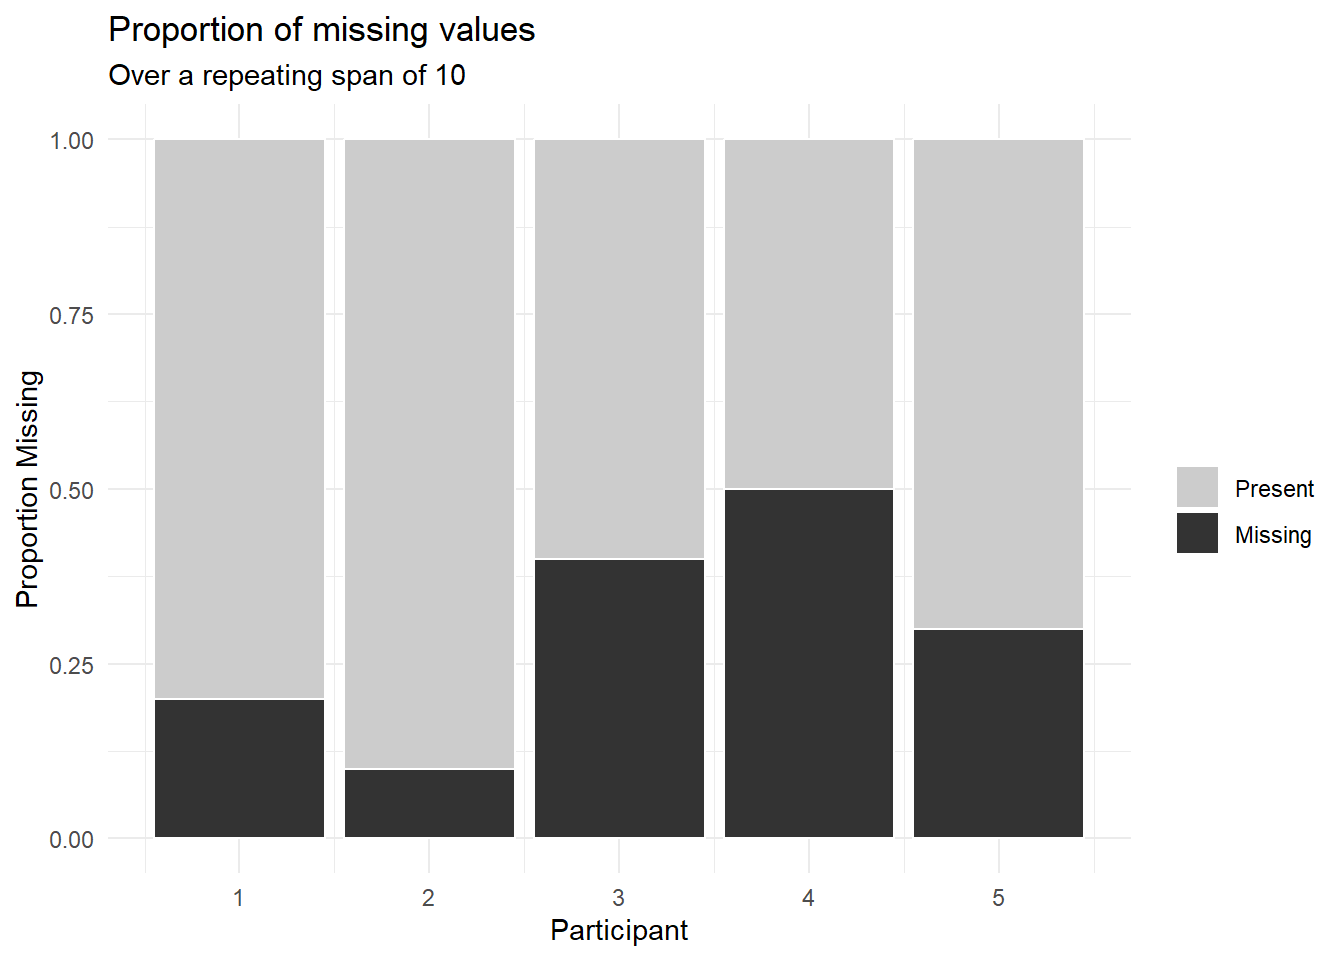
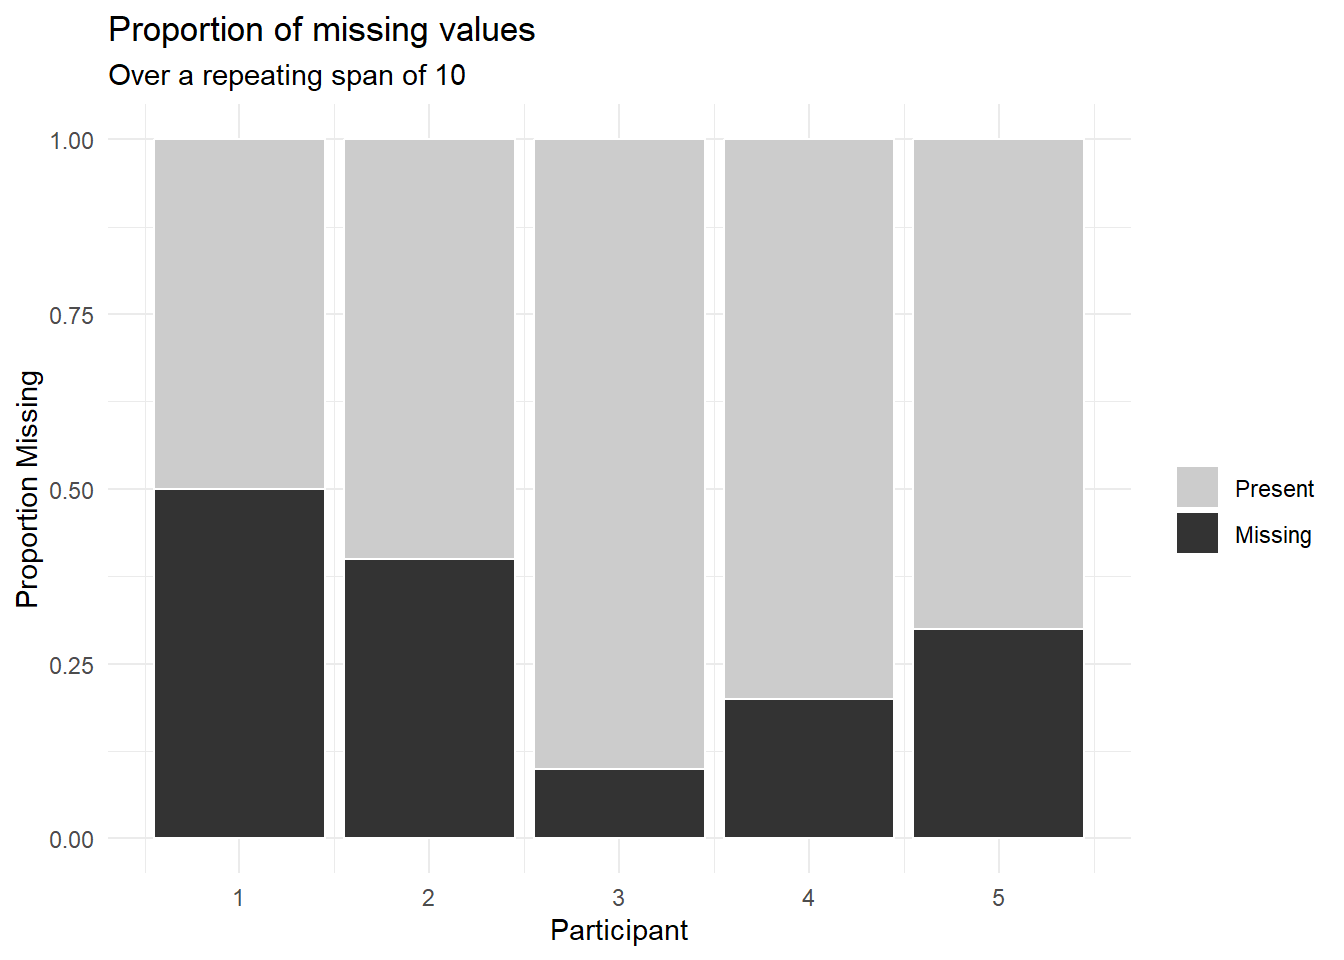
Finished missing data (for now)

Changed region(s): [[0.0938, 0.5, 0.6875, 0.8125]]

diff --git a/docs/missing-data.html b/docs/missing-data.html
@@ -199,7 +199,10 @@ div.csl-indent {
   <ul>
   <li><a href="#types-of-missing-data" id="toc-types-of-missing-data" class="nav-link active" data-scroll-target="#types-of-missing-data"><span class="header-section-number">2.1</span> Types of missing data</a></li>
   <li><a href="#invisible-missing-data-in-longitudinal-datasets" id="toc-invisible-missing-data-in-longitudinal-datasets" class="nav-link" data-scroll-target="#invisible-missing-data-in-longitudinal-datasets"><span class="header-section-number">2.2</span> Invisible missing data in longitudinal datasets</a></li>
-  <li><a href="#other-random-thoughts" id="toc-other-random-thoughts" class="nav-link" data-scroll-target="#other-random-thoughts"><span class="header-section-number">2.3</span> Other random thoughts</a></li>
+  <li><a href="#sec-visualizing-missing" id="toc-sec-visualizing-missing" class="nav-link" data-scroll-target="#sec-visualizing-missing"><span class="header-section-number">2.3</span> Visualizing missing data</a></li>
+  <li><a href="#data-imputation" id="toc-data-imputation" class="nav-link" data-scroll-target="#data-imputation"><span class="header-section-number">2.4</span> Data imputation</a></li>
+  <li><a href="#other-random-thoughts" id="toc-other-random-thoughts" class="nav-link" data-scroll-target="#other-random-thoughts"><span class="header-section-number">2.5</span> Other random thoughts</a></li>
+  <li><a href="#resources" id="toc-resources" class="nav-link" data-scroll-target="#resources"><span class="header-section-number">2.6</span> Resources</a></li>
   </ul>
 </nav>
     </div>
@@ -285,21 +288,21 @@ div.csl-indent {
 <span id="cb1-10"><a href="#cb1-10" aria-hidden="true" tabindex="-1"></a><span class="fu">slice_head</span>(sample_data, <span class="at">n =</span> <span class="dv">15</span>)</span></code><button title="Copy to Clipboard" class="code-copy-button"><i class="bi"></i></button></pre></div>
 <div class="cell-output cell-output-stdout">
 <pre><code>   participant beep     score
-1            1    1 97.984191
-2            1    3 76.404533
-3            1    4  9.632933
-4            1    5 40.076287
-5            1    6 53.914000
-6            1    8 97.989759
-7            1    9 62.433741
-8            1   10  2.217553
-9            2    1  7.354325
-10           2    2 83.207773
-11           2    3 79.002060
-12           2    4 22.008199
-13           2    6 20.502814
-14           2    7 73.632378
-15           2    8  3.618064</code></pre>
+1            1    2 55.487218
+2            1    4 31.263768
+3            1    8 67.341191
+4            1    9 26.042578
+5            1   10 69.639438
+6            2    2 37.726498
+7            2    3 93.845877
+8            2    5 36.796499
+9            2    7  3.636708
+10           2    8 65.142862
+11           2   10 80.435412
+12           3    1 79.711884
+13           3    3 34.767416
+14           3    4 34.352551
+15           3    5 59.431819</code></pre>
 </div>
 </div>
 <p>In this dataset there are no <em>real</em> missings – every cell in the table is filled with data, but there are missing beeps.</p>
@@ -312,30 +315,30 @@ div.csl-indent {
 <pre><code># A tibble: 15 × 3
    participant  beep score
          &lt;int&gt; &lt;int&gt; &lt;dbl&gt;
- 1           1     1 98.0 
- 2           1     2 NA   
- 3           1     3 76.4 
- 4           1     4  9.63
- 5           1     5 40.1 
- 6           1     6 53.9 
- 7           1     7 NA   
- 8           1     8 98.0 
- 9           1     9 62.4 
-10           1    10  2.22
-11           2     1  7.35
-12           2     2 83.2 
-13           2     3 79.0 
-14           2     4 22.0 
-15           2     5 NA   </code></pre>
+ 1           1     1  NA  
+ 2           1     2  55.5
+ 3           1     3  NA  
+ 4           1     4  31.3
+ 5           1     5  NA  
+ 6           1     6  NA  
+ 7           1     7  NA  
+ 8           1     8  67.3
+ 9           1     9  26.0
+10           1    10  69.6
+11           2     1  NA  
+12           2     2  37.7
+13           2     3  93.8
+14           2     4  NA  
+15           2     5  36.8</code></pre>
 </div>
 </div>
+</section>
+<section id="sec-visualizing-missing" class="level2" data-number="2.3">
+<h2 data-number="2.3" class="anchored" data-anchor-id="sec-visualizing-missing"><span class="header-section-number">2.3</span> Visualizing missing data</h2>
 <p>The missing scores have now become explicit and are visible as <code>NA</code> see <a href="#fig-visible-missings">Figure&nbsp;<span>2.1</span></a> and <a href="#fig-missings-with-span">Figure&nbsp;<span>2.2</span></a>.</p>
 <div class="cell">
-<div class="sourceCode cell-code" id="cb5"><pre class="sourceCode r code-with-copy"><code class="sourceCode r"><span id="cb5-1"><a href="#cb5-1" aria-hidden="true" tabindex="-1"></a><span class="fu">library</span>(naniar)</span></code><button title="Copy to Clipboard" class="code-copy-button"><i class="bi"></i></button></pre></div>
-<div class="cell-output cell-output-stderr">
-<pre><code>Warning: package 'naniar' was built under R version 4.3.3</code></pre>
-</div>
-<div class="sourceCode cell-code" id="cb7"><pre class="sourceCode r code-with-copy"><code class="sourceCode r"><span id="cb7-1"><a href="#cb7-1" aria-hidden="true" tabindex="-1"></a><span class="fu">gg_miss_var</span>(sample_with_explicit_missings, <span class="at">facet =</span> participant)</span></code><button title="Copy to Clipboard" class="code-copy-button"><i class="bi"></i></button></pre></div>
+<div class="sourceCode cell-code" id="cb5"><pre class="sourceCode r code-with-copy"><code class="sourceCode r"><span id="cb5-1"><a href="#cb5-1" aria-hidden="true" tabindex="-1"></a><span class="fu">library</span>(naniar)</span>
+<span id="cb5-2"><a href="#cb5-2" aria-hidden="true" tabindex="-1"></a><span class="fu">gg_miss_var</span>(sample_with_explicit_missings, <span class="at">facet =</span> participant)</span></code><button title="Copy to Clipboard" class="code-copy-button"><i class="bi"></i></button></pre></div>
 <div class="cell-output-display">
 <div id="fig-visible-missings" class="quarto-figure quarto-figure-center anchored">
 <figure class="figure">
@@ -346,8 +349,8 @@ div.csl-indent {
 </div>
 </div>
 <div class="cell">
-<div class="sourceCode cell-code" id="cb8"><pre class="sourceCode r code-with-copy"><code class="sourceCode r"><span id="cb8-1"><a href="#cb8-1" aria-hidden="true" tabindex="-1"></a><span class="fu">gg_miss_span</span>(sample_with_explicit_missings, score, <span class="at">span_every =</span> <span class="dv">10</span>) <span class="sc">+</span></span>
-<span id="cb8-2"><a href="#cb8-2" aria-hidden="true" tabindex="-1"></a>  <span class="fu">labs</span>(<span class="at">x =</span> <span class="st">"Participant"</span>)</span></code><button title="Copy to Clipboard" class="code-copy-button"><i class="bi"></i></button></pre></div>
+<div class="sourceCode cell-code" id="cb6"><pre class="sourceCode r code-with-copy"><code class="sourceCode r"><span id="cb6-1"><a href="#cb6-1" aria-hidden="true" tabindex="-1"></a><span class="fu">gg_miss_span</span>(sample_with_explicit_missings, score, <span class="at">span_every =</span> <span class="dv">10</span>) <span class="sc">+</span></span>
+<span id="cb6-2"><a href="#cb6-2" aria-hidden="true" tabindex="-1"></a>  <span class="fu">labs</span>(<span class="at">x =</span> <span class="st">"Participant"</span>)</span></code><button title="Copy to Clipboard" class="code-copy-button"><i class="bi"></i></button></pre></div>
 <div class="cell-output-display">
 <div id="fig-missings-with-span" class="quarto-figure quarto-figure-center anchored">
 <figure class="figure">
@@ -357,10 +360,34 @@ div.csl-indent {
 </div>
 </div>
 </div>
+<p>It is also possible to visualize the missing data in a scatterplot (look at <code>naniar::geom_miss_point()</code>). In <a href="#fig-missing-scatter">Figure&nbsp;<span>2.3</span></a> it can be seen that the missing values are approximately randomly distributed across the beeps (which makes sense because I used a random sample to create the missings in the first place).</p>
+<div class="cell">
+<div class="sourceCode cell-code" id="cb7"><pre class="sourceCode r code-with-copy"><code class="sourceCode r"><span id="cb7-1"><a href="#cb7-1" aria-hidden="true" tabindex="-1"></a>sample_with_explicit_missings <span class="sc">%&gt;%</span></span>
+<span id="cb7-2"><a href="#cb7-2" aria-hidden="true" tabindex="-1"></a>  <span class="fu">ggplot</span>(<span class="fu">aes</span>(<span class="at">x =</span> beep, <span class="at">y =</span> score)) <span class="sc">+</span></span>
+<span id="cb7-3"><a href="#cb7-3" aria-hidden="true" tabindex="-1"></a>  naniar<span class="sc">::</span><span class="fu">geom_miss_point</span>()</span></code><button title="Copy to Clipboard" class="code-copy-button"><i class="bi"></i></button></pre></div>
+<div class="cell-output-display">
+<div id="fig-missing-scatter" class="quarto-figure quarto-figure-center anchored">
+<figure class="figure">
+<p><img src="missing-data_files/figure-html/fig-missing-scatter-1.png" class="img-fluid figure-img" width="672"></p>
+<figcaption class="figure-caption">Figure&nbsp;2.3: A scatterplot showing missing values as red dots</figcaption>
+</figure>
+</div>
+</div>
+</div>
 </section>
-<section id="other-random-thoughts" class="level2" data-number="2.3">
-<h2 data-number="2.3" class="anchored" data-anchor-id="other-random-thoughts"><span class="header-section-number">2.3</span> Other random thoughts</h2>
+<section id="data-imputation" class="level2" data-number="2.4">
+<h2 data-number="2.4" class="anchored" data-anchor-id="data-imputation"><span class="header-section-number">2.4</span> Data imputation</h2>
+<p>I was taught to be very careful with data imputation. However, there can be cases where imputation is a wise thing to do because imputing a couple of missings can really save a lot of data from having to be thrown away.</p>
+<p>Imputation methods from the <code>naniar</code> package include <code>impute_below</code> and <code>impute_mean</code>. (See documentation for that package).</p>
+<p>A package that can handle imputation with linear models is <code>simputation</code> (<a href="https://github.com/markvanderloo/simputation">simputation github</a>).</p>
+</section>
+<section id="other-random-thoughts" class="level2" data-number="2.5">
+<h2 data-number="2.5" class="anchored" data-anchor-id="other-random-thoughts"><span class="header-section-number">2.5</span> Other random thoughts</h2>
 <p>Tidyr also has a function <code>fill</code> to “fill down” missing data, i.e.&nbsp;fill the empty values in a column with the last non-empty value above it.</p>
+</section>
+<section id="resources" class="level2" data-number="2.6">
+<h2 data-number="2.6" class="anchored" data-anchor-id="resources"><span class="header-section-number">2.6</span> Resources</h2>
+<p><a href="https://campus.datacamp.com/courses/dealing-with-missing-data-in-r">Datacamp course - Dealing with missing data</a></p>
 
 
 <div id="refs" class="references csl-bib-body hanging-indent" role="list" style="display: none">

diff --git a/docs/projects.html b/docs/projects.html
@@ -146,8 +146,12 @@ ul.task-list li input[type="checkbox"] {
   <ul>
   <li><a href="#version-control" id="toc-version-control" class="nav-link active" data-scroll-target="#version-control"><span class="header-section-number">3.1</span> Version control</a></li>
   <li><a href="#programming-practices" id="toc-programming-practices" class="nav-link" data-scroll-target="#programming-practices"><span class="header-section-number">3.2</span> Programming practices</a></li>
-  <li><a href="#rmd-quarto-etc" id="toc-rmd-quarto-etc" class="nav-link" data-scroll-target="#rmd-quarto-etc"><span class="header-section-number">3.3</span> Rmd, quarto, etc</a></li>
+  <li><a href="#rmd-quarto-etc" id="toc-rmd-quarto-etc" class="nav-link" data-scroll-target="#rmd-quarto-etc"><span class="header-section-number">3.3</span> Rmd, quarto, etc</a>
+  <ul class="collapse">
+  <li><a href="#quarto" id="toc-quarto" class="nav-link" data-scroll-target="#quarto"><span class="header-section-number">3.3.1</span> Quarto</a></li>
+  </ul></li>
   <li><a href="#structuring-resources-or-where-did-i-read-that-again" id="toc-structuring-resources-or-where-did-i-read-that-again" class="nav-link" data-scroll-target="#structuring-resources-or-where-did-i-read-that-again"><span class="header-section-number">3.4</span> Structuring resources; or ‘where did I read that again?’</a></li>
+  <li><a href="#resources" id="toc-resources" class="nav-link" data-scroll-target="#resources"><span class="header-section-number">3.5</span> Resources</a></li>
   </ul>
 </nav>
     </div>
@@ -197,11 +201,19 @@ ul.task-list li input[type="checkbox"] {
 <h2 data-number="3.3" class="anchored" data-anchor-id="rmd-quarto-etc"><span class="header-section-number">3.3</span> Rmd, quarto, etc</h2>
 <p>My first experiences with R go back to 2002 I think. At the time we just used the plain R console, and that already felt very impressive. Later came ESS (emacs speaks statistics), and that made things much easier even though I always kept mixing up the keyboard shortcuts. Code documentation was in comments. And then some years later Sweave came :). Finally it was possible to keep thoughts and code and results in one place and distribute it as a single document. I really, REALLY liked that at the time.</p>
 <p>When after a long break away from R I rediscovered R again, I found RMarkdown (rmd). It still had all the good things Sweave already provided, but was much easier and had a better workflow. I made a sidestep to Jupyter when I toyed around with Python, but Rmd was my favorite tool of choice. Only recently I switched to Quarto, just another tool in the long list of tools, nothing really shocking, but newer, neater and better :). The point I want to make is that the tool in itself doesn’t matter (tools come and go…); it’s all about finding something that works to keep thoughts flowing and tell a story.</p>
+<section id="quarto" class="level3" data-number="3.3.1">
+<h3 data-number="3.3.1" class="anchored" data-anchor-id="quarto"><span class="header-section-number">3.3.1</span> Quarto</h3>
+<p>Use <a href="https://quarto.org/docs/authoring/cross-references.html">Cross references in Quarto</a> to create links to sections, figures, tables, formulas etcetera.</p>
+</section>
 </section>
 <section id="structuring-resources-or-where-did-i-read-that-again" class="level2" data-number="3.4">
 <h2 data-number="3.4" class="anchored" data-anchor-id="structuring-resources-or-where-did-i-read-that-again"><span class="header-section-number">3.4</span> Structuring resources; or ‘where did I read that again?’</h2>
 <p>I still struggle with this one – there are some things I just keep googling every time I need them, and there have been so many occasions where I knew I had read something before but couldn’t find it again. Plain old paper books were easier – I felt it was easier to remember which book and which chapter had a certain piece of information.</p>
 <p>I guess this current project is my attempt to get a bit of structure in the chaos? Time will tell if it works…</p>
+</section>
+<section id="resources" class="level2" data-number="3.5">
+<h2 data-number="3.5" class="anchored" data-anchor-id="resources"><span class="header-section-number">3.5</span> Resources</h2>
+<p><a href="https://quarto.org/docs/guide/">Quarto documentation</a></p>
 
 
 </section>
